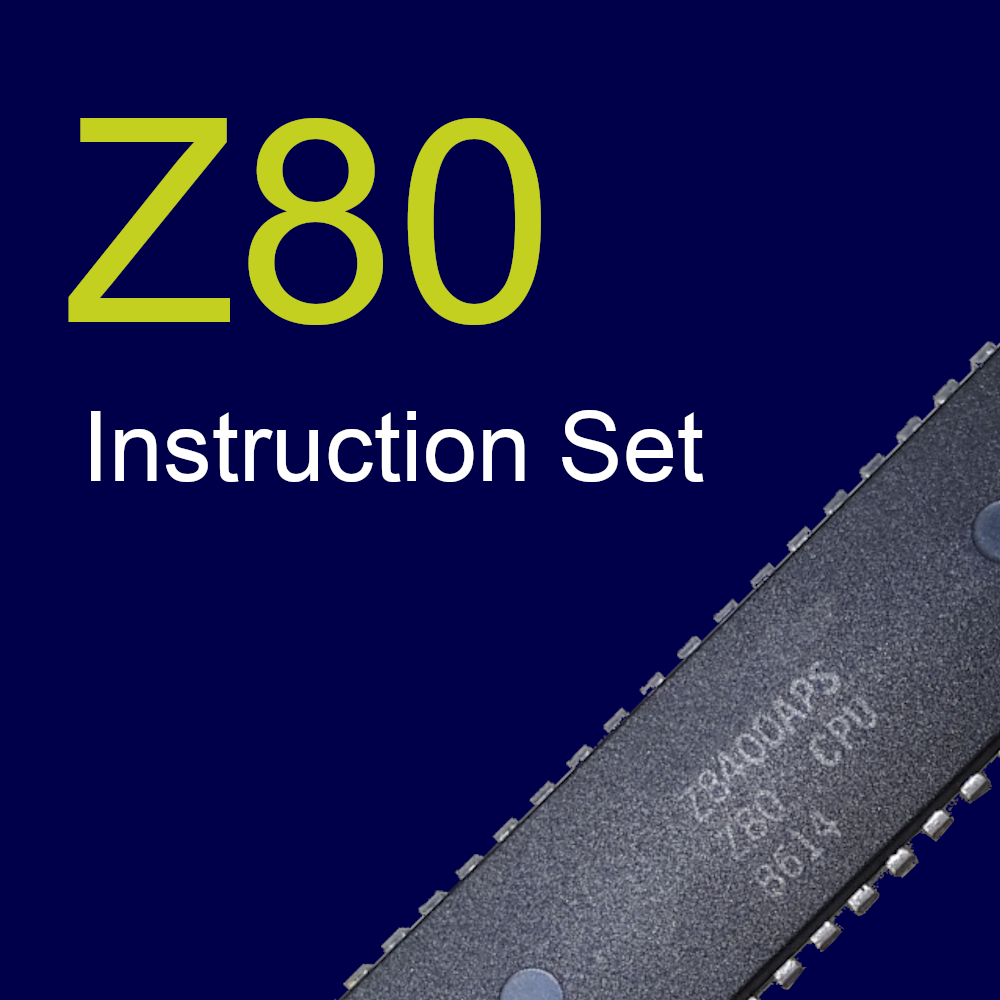
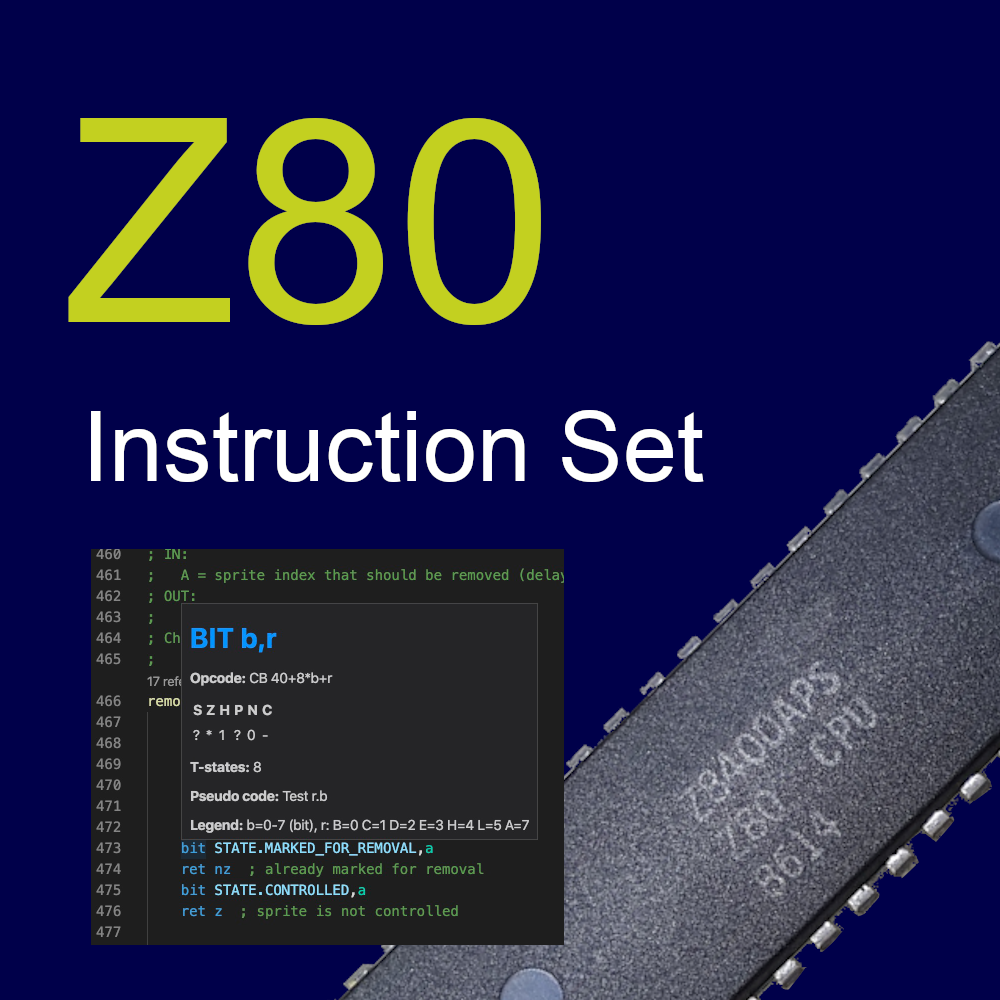
All opcodes included.

Changed region(s): [[0.093, 0.527, 0.589, 0.961]]

diff --git a/src/z80InstructionSetRawData.ts b/src/z80InstructionSetRawData.ts
@@ -404,9 +404,12 @@ export const z80InstructionSetRawData = [
 
 	// Z80N
 	["LDIX", "16", "", "", "ED A4", "", "", "If [HL] != A then [DE] := [HL], DE := DE+1; HL := HL+1; BC := BC-1"],
+	["LDWS", "14", "", "", "ED A5", "", "***V0-", "[DE] := [HL], L := L+1, D := D+1, flags are like 'INC D'. This is used for vertically copying bytes to the Layer 2 display."],
 	["LDIRX", "21/16", "", "", "ED B4", "", "", "Repeat LDIX until BC == 0"],
 	["LDDX", "16", "", "", "ED AC", "", "", "If [HL] != A then [DE] := [HL], DE := DE-1; HL := HL-1; BC := BC-1"],
 	["LDDRX", "21/16", "", "", "ED BC", "", "", "Repeat LDIX until BC == 0"],
+	["LDPIRX", "21/16", "", "", "ED B7", "", "", "repeat, t := [HL&FFF8h+E&7h], if t != A then [DE] := t,  DE := DE+1, BC := BC-1, until BC == 0"],
+	["OUTINB", "16", "", "", "ED 90", "", "??????", "port[BC] := [HL], HL++, behaves like OUTI but does not decrement B"],
 	["MUL D,E", "8", "", "", "ED 30", "", "", "DE := D*E"],
 	["ADD HL,A", "8", "", "", "ED 31", "", "", "HL := HL+A"],
 	["ADD DE,A", "8", "", "", "ED 32", "", "", "DE := DE+A"],
@@ -430,9 +433,5 @@ export const z80InstructionSetRawData = [
 	["BSRF DE,B", "8", "", "", "ED 2B", "", "", "1-fill shift right of DE, (B&1Fh) times"],
 	["BRLC DE,B", "8", "", "", "ED 2C", "", "", "If B.4 == 0 then 0-fill shift left of DE, (B&0Fh) times, else 0-fill shift right of DE, 16-(B&0Fh) times"],
 	["JP (C)", "13", "", "", "ED 98", "", "", "The JP (C) sets bottom 14 bits of current PC to value read from I/O port: PC.13-0 := port[C]<<6) (can be used to execute code block read from a disk stream)."],
-
-	["LDWS", "14", "", "", "ED A5", "", ""],
-	["LDPIRX", "21/16", "", "", "ED B7", "", ""],
-	["OUTINB", "16", "", "", "ED 90", "", ""],
 
 ];

diff --git a/README.md b/README.md
@@ -1,7 +1,9 @@
 # Z80 Instruction Set
 
 This is a hover provider for vscode.
-I.e. if you hover over a Z80 instruction (e.g. "LD A,5") the opcode for this instruction is displayed.
+I.e. if you hover over a Z80 instruction (e.g. "LD A,5") the opcode and a description for the instruction is displayed.
+
+![](assets/hover.jpg)
 
 Note: It does also show the opcodes for the Z80N instructions (ZX Spectrum Next).
 
@@ -15,6 +17,20 @@ The extension is called "Z80 Instruction Set".
 It supports the following assembler file extensions:
 .asm, .s, .inc, .a80.
 -->
+
+
+# Configuration
+
+- "z80-instruction-set.enableHovering": Enable/disable the hovering. I.e. enable/disable the extension.
+- "z80-instruction-set.z80Link": Link to Z80 documentation. You can change this e.g. to point to your local Z80 manual pdf. Use an empty string "" to disable.
+
+
+# Misc
+
+To view all instruction open the command palette (press F1) and enter "Show all Z80 instructions".
+A WebView opens with the instructions.
+
+![](assets/Z80InstructionsView.jpg)
 
 
 # Acknowledgememts

diff --git a/CHANGELOG.md b/CHANGELOG.md
@@ -1,7 +1,11 @@
 # Changelog
 
+## 0.6.1
+- Link changed to customizable.
+- All opcodes included.
+
 ## 0.6.0
-- Link added to google search.
+- Link added.
 
 ## 0.5.0
 - WebView to show Z80 instructions.
